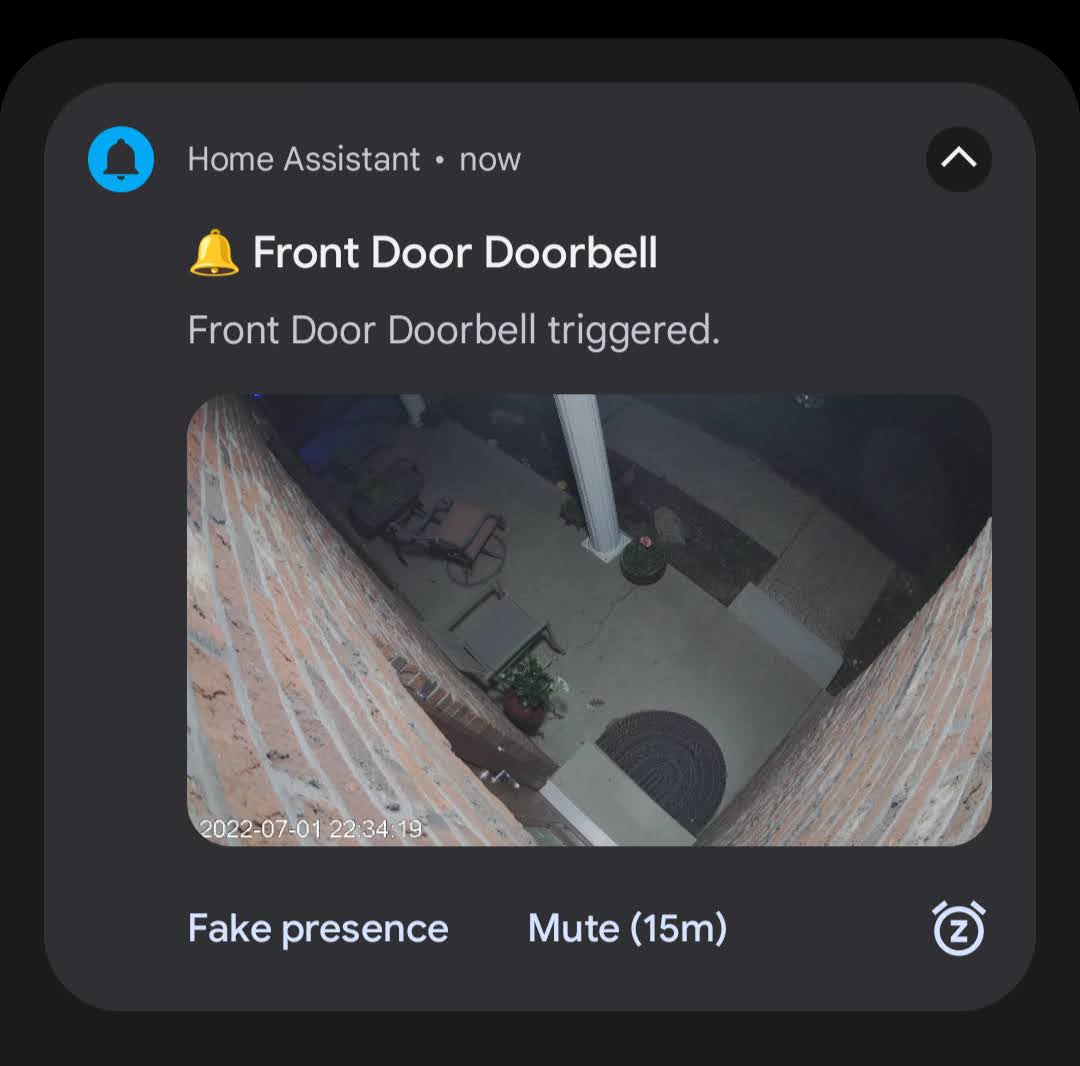
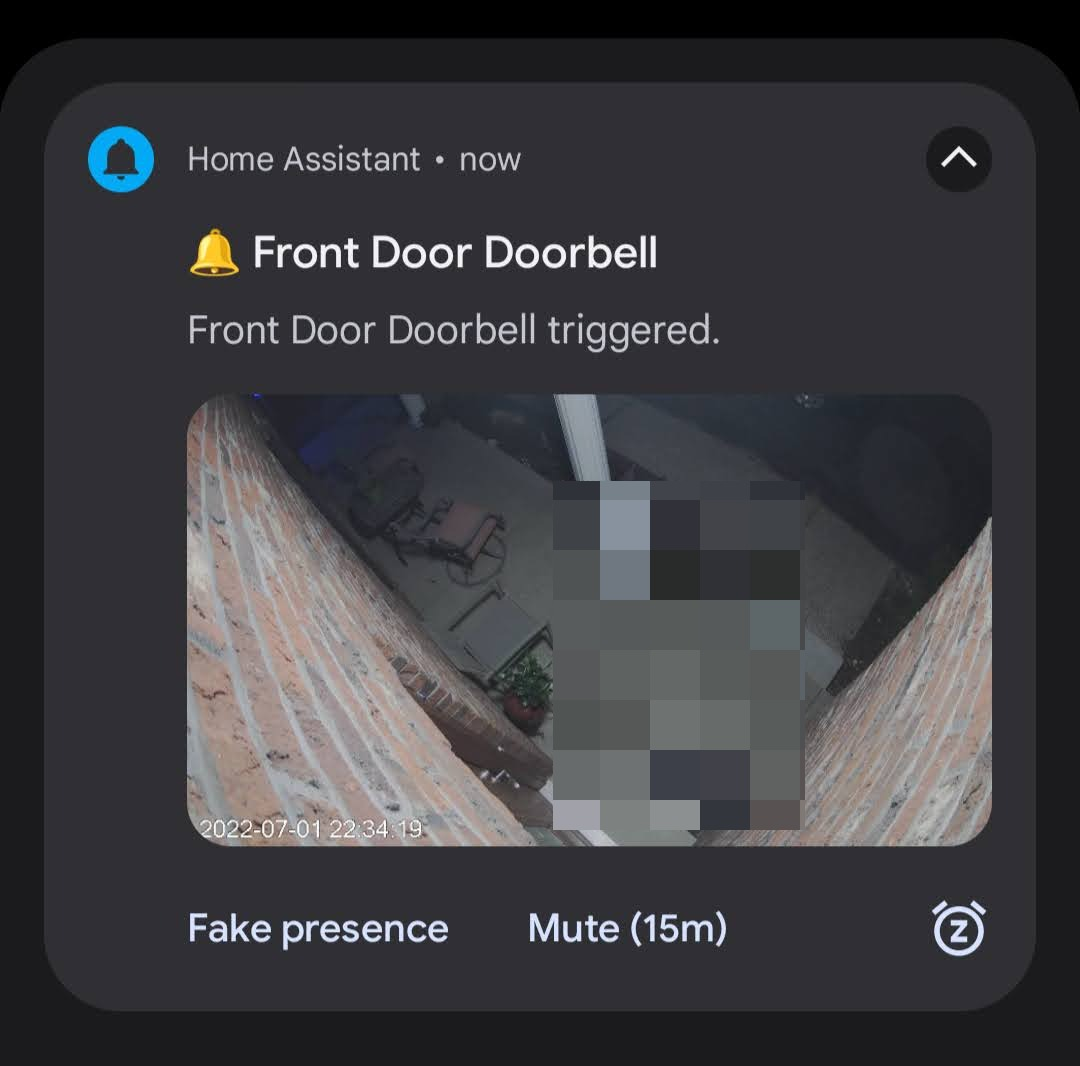
Continue drafting blog post about smart doorbell transformation

Changed region(s): [[0.4889, 0.6501, 0.7639, 0.8049], [0.5194, 0.4334, 0.7639, 0.5882]]

diff --git a/_posts/2022-07-01-doorbell-alerts.md b/_posts/2022-07-01-doorbell-alerts.md
@@ -1,5 +1,5 @@
 ---
-title: Smart Doorbell Retrofit in Home Assistant
+title: Transforming an Old Doorbell with Smart Alerts
 date: '2022-07-01 12:22'
 comments: true
 image:
@@ -9,25 +9,27 @@ image:
 alt: Original doorbell to the house
 published: true
 tag: "small project"
-description: "Retrofitting our existing doorbells to send useful alerts in Home Assistant when someone rings."
+description: "Transforming our existing doorbells to send alerts through Home Assistant when someone rings."
 ---
 
-In the last year I've been retrofitting tech into our home. 
-Our house is the epitome of luxury featuring such things as a ragged sound deadening from our rad carpeted stairwell. Due to this ingenious addition, it's difficult to hear things like the doorbell while we're watching TV or in a meeting.
+For the last year I've been retrofitting tech into our home. 
+Our house is the epitome of luxury featuring such things like a ragged carpeted wall to promote sound deadening. Due to this ingenious addition, it's difficult to hear things like the doorbell while we're watching TV or in a meeting.
 
-How do we solve this? ~~Take out the carpeted wall and make the doorbell louder~~. **NO**. We make the doorbell _smart_ 🧠! 
+How do we solve this? ~~Take out the carpeted wall and make the doorbell louder~~. **NO**. We make the doorbell _smart_ 🧠 and take pride it doing it ourselves! 
 
-> This is going to be a pretty high level overview at getting Shelly 1 relays to intercept my doorbell signals. It will skip over things like "Flashing ESPHome onto the Shelly relay". 
+> This is going to be _super casual_.
 > 
-> It's really to allow users near this ecosystem to steal and benefit from my project.
+> It will be a pretty high level overview at getting Shelly 1 relays to intercept my doorbell signals. I will skip over things like how to flash ESPHome onto the Shelly relay.
+> 
+> It's really to allow users near this ecosystem to steal from my project. Just like how [I stole some ideas from Frenck](https://frenck.dev/diy-smart-doorbell-for-just-2-dollar/).
 
 ## Goals
 
 - Get alerts on our devices when the doorbell rings
 - Ability to discern our different doorbells
 - Avoid subscription costs (Except to [Nabu Casa](https://www.nabucasa.com/) ❤)
-- Ability to disable the doorbell chime like when we're sleeping
-- Create a fun repeating doorbell alarm for no good reason
+- Ability to silence the doorbell chime
+- Create a repeating doorbell alarm for ~~no good reason~~ _fun_
 
 ## Requirements
 
@@ -36,9 +38,9 @@ How do we solve this? ~~Take out the carpeted wall and make the doorbell louder~
 Here's an approximation for the hardware costs involved with the project.
 
 - $35: 2x Shelly 1 (one for each doorbell)
-- $15: Low voltage power supply (couldn't run it off of transformer in my case)
+- $15: Low voltage power supply (couldn't run it off of transformer in my case, but others might be able to)
 - $10: Low voltage wire to power Shelly 1
-- $20: (Optional) Waterproof junction box so wires weren't hanging everywhere
+- $15: (Optional) Fancy junction box so wires don't hang everywhere
 
 > I used a waterproof junction box because the doorbell wiring was too close to the main water line for my comfort. It just helps me sleep better.
 
@@ -55,31 +57,39 @@ This guide is going to assume the user is familiar with Home Assistant and ESPHo
 
 ### Two Shelly Relays?
 
-If you've read the hardware above, you might be asking yourself "Why are there two Shelly 1s? Surely you don't need that. 
+If you've read the hardware requirements above, you might be asking yourself "Why are there two Shelly 1 relays? Surely you don't need that." 
 
 You'd be right! However, did you know some homes have _two_ doorbells? I guess the thought is that you put the second doorbell by your back door in case a neighbor is stopping by. 
 
 When this happens, a chime box can be wired to give each doorbell a different chime (`Ding` vs `Ding Dong`) allowing the homeowner to know which door their visitor is at. _Neat!_
 
-Except our second doorbell is _also_ in the front.. just 15 steps from the first doorbell. We've had people ring our second doorbell before, so we're just going to proceed supporting it because I think it's bougie. 😎
+Except our second doorbell is _also_ in the front of our house.. just 15 steps from the first doorbell. We've had people ring our second doorbell before, so we're just going to proceed supporting it because I think it's bougie. 😎
 
 ### Shelly 1 Configuration
 
 Mentioned earlier, we're going to use ESPHome to configure our Shelly 1 relays.
 
-The Shelly 1 relay will be powered from our low voltage wires (or really, whatever you can find). The doorbell wires will travel through the I/O connectors. Finally, the doorbell button wire will become captured by the Shelly 1 `switch` input. We pass along that original doorbell signal via the Shelly relay to our doorbell chime and set it off. 
+The Shelly 1 relay will be powered from our low voltage wires (or really, whatever you can find for the `line` and `neutral`). 
 
-This accomplishes two things. First, we now _know_ via software that the doorbell was pressed since we triggered it via the Shelly `switch` input. Second, because we're choosing to pass the signal onto our doorbell chime, we can also choose _not_ to pass the signal along like while the baby is sleeping. I've added functionality to mute the doorbell chime via an exposed input boolean below (Helpful to pair with home bedtime automations).
+We'll connect the Shelly 1 `input` connector to the doorbell transformer power. That power (when switched on) will travel through the Shelly 1 `output` connector, leading to trigger the chime box. 
 
-> Achievement unlocked: Muting a doorbell
+Finally, the doorbell button signal will be captured by the Shelly 1 `switch` input.
 
-But we can take that a step further. Since we're _also_ in control of when our doorbell chimes, why not control it further? In the ESPHome config below, I've also included a little `script` that will repeatedly trigger the doorbell chime for 30s when toggled on. _DING-DONG Ding-Dong ding-dong..._ After 30s, the relay _should_ turn off the toggle, stopping the script execution.
+Capturing the doorbell signal with the `switch` input accomplishes two things. First, we now _know_ via software that the doorbell was pressed since we triggered it via the Shelly `switch` input. Second, because we're choosing to pass the signal onto our doorbell chime, we can also choose _not_ to pass the signal along 🔇. 
 
-_Why?_ I'm not really sure. It just seemed like a fun idea. Maybe you enjoy making dogs bark, annoying your significant other, or pretending to have a high-tech burglar alarm to annoy them away.
+I've added functionality to mute the doorbell chime via an exposed input. It's useful to pair with bedtime routines to keep the house quiet.
 
-It's probably a bad idea. But don't let that stop you! Just be careful of burning our your relay or doorbell chime. I'm _at least_ 20% sure it's not meant to operate like that (hence the 30s cap).
+> 🏅 Achievement unlocked: Muting a doorbell
 
-> Achievement unlocked: Annoying as bell
+![Home Assistant dashboard showing contents of the front door doorbell](/assets/img/2022/07/doorbell_device.png)*Home Assistant dashboard of Front Door Doorbell*
+
+But we can take that a step further. Since we're in control of _when_ our doorbell chimes, why not have some fun with that power? In the ESPHome config below, I've included a little `script` that will repeatedly trigger the doorbell chime for 30s when toggled on. _DING-DONG Ding-Dong ding-dong..._ After 30s, the script _should_ stop toggling the relay.
+
+_Why have I done this?_ I'm not really sure. It just seemed like a fun idea. Maybe you enjoy making dogs bark, annoying your significant other, or pretending to have a high-tech burglar alarm to annoy them away.
+
+It's probably a bad idea. But don't let that stop you! Just be careful of burning out your relay or doorbell chime. I'm _at least_ 20% sure it's not meant to operate like that (hence the 30s cap).
+
+> 🏅 Achievement unlocked: Annoying as bell
 
 
 ```yaml
@@ -226,9 +236,9 @@ script:
 
 Great, we have a chime and it's added into Home Assistant. That's not very useful yet. So let's add notifications!
 
-> I also _happen_ to have a camera by the doorbell, so I include a camera snapshot in my notifications.
+> I also _happen_ to have a camera by the doorbell, so I include a camera snapshot in my notifications. 
 
-Using the Home Assistant app on our phone, we can send out notifications with the following Home Assistant automation.
+Using the companion Home Assistant app on our phone, we can [push notifications to our device](https://companion.home-assistant.io/docs/notifications/notifications-basic/) using the `notify` service.
 
 ![Simulated phone doorbell notification](/assets/img/2022/07/phone_notification.jpg)*Simulated phone notification from a doorbell press*
 
@@ -259,7 +269,7 @@ blueprint:
   input:
     doorbell_sensor:
       name: Doorbell sensor
-      description: The sensor wich triggers the snapshot creation (domain binary_sensor, class motion).
+      description: The sensor which triggers the snapshot creation (domain binary_sensor, class motion).
       selector:
           entity:
             domain: binary_sensor
@@ -270,20 +280,6 @@ blueprint:
       selector:
         entity:
           domain: camera
-          
-    notifications_enabled:
-      name: Notifications State
-      description: Input Boolean to control all notifications across all automations (excluding overrides)
-      selector:
-        entity:
-          domain: input_boolean
-
-    sleeping_mode_enabled:
-      name: Sleeping Mode State
-      description: Input Boolean to describe the state of the home sleeping mode
-      selector:
-        entity:
-          domain: input_boolean
           
     camera_delay:
       name: (Optional) Camera Delay
@@ -344,18 +340,8 @@ variables:
   rate_limit: !input rate_limit
   snapshot_file_path: "/config/www/tmp/snapshot_{{ states[camera].object_id }}.jpg"
   snapshot_image_path: "/local/tmp/snapshot_{{ states[camera].object_id }}.jpg"
-  notifications_enabled: !input notifications_enabled
-  sleeping_mode_enabled: !input sleeping_mode_enabled
   notification_message_standard: !input notification_message_standard
 
-condition:
-  - condition: template
-    value_template: >-
-      {% if (states[notifications_enabled].state == 'on') %}
-        true
-      {% else %}
-        false
-      {%- endif %}  
 action:
   - delay: "{{ camera_delay }}"   
   
@@ -366,6 +352,7 @@ action:
       
   - delay: "{{ snapshot_delay }}"      
 
+  # Update this service group with whomever you'd like to notify
   - service: notify.family
     data:
       title: "{{ notification_title }}"
@@ -379,13 +366,9 @@ action:
           priority: high
         push:
           interruption-level: time-sensitive
-        actions:
-          - action: SIMULATE_PRESENCE
-            title: Fake presence
-          - action: TEMP_DOORBELL_NOTIFICATION_MUTE
-            title: Mute (15m)
         image: "{{ snapshot_image_path }}"
 
+  # Update this service group with whomever you'd like to notify
   - service: notify.screens
     data:
       title: "{{ notification_title }}"
@@ -407,6 +390,6 @@ max_exceeded: silent
 
 I don't think I'm a luddite, but sometimes I really appreciate older things. Who knows, maybe I'll come around to a video doorbell once there are better looking options. 
 
-It's super useful to get alerts when I'm busy, away from home, or mute alerts while the baby naps.
+It's super useful to get alerts when I'm busy, away from home, or have the ability to mute alerts while the baby naps.
 
 I had an existing doorbell, existing camera, and accessible wiring. With a little bit of fun, I was able to transform (pun intended) our doorbell setup into something I'd seen advertised by other smart doorbells. But doing it myself makes me happy.
